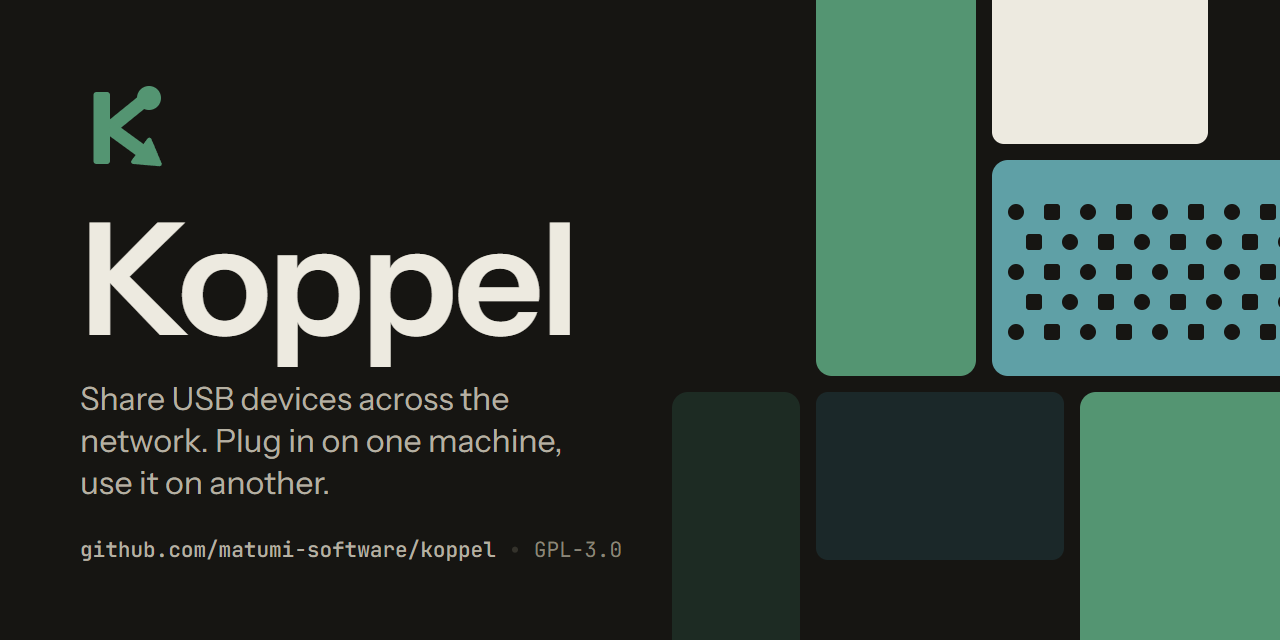
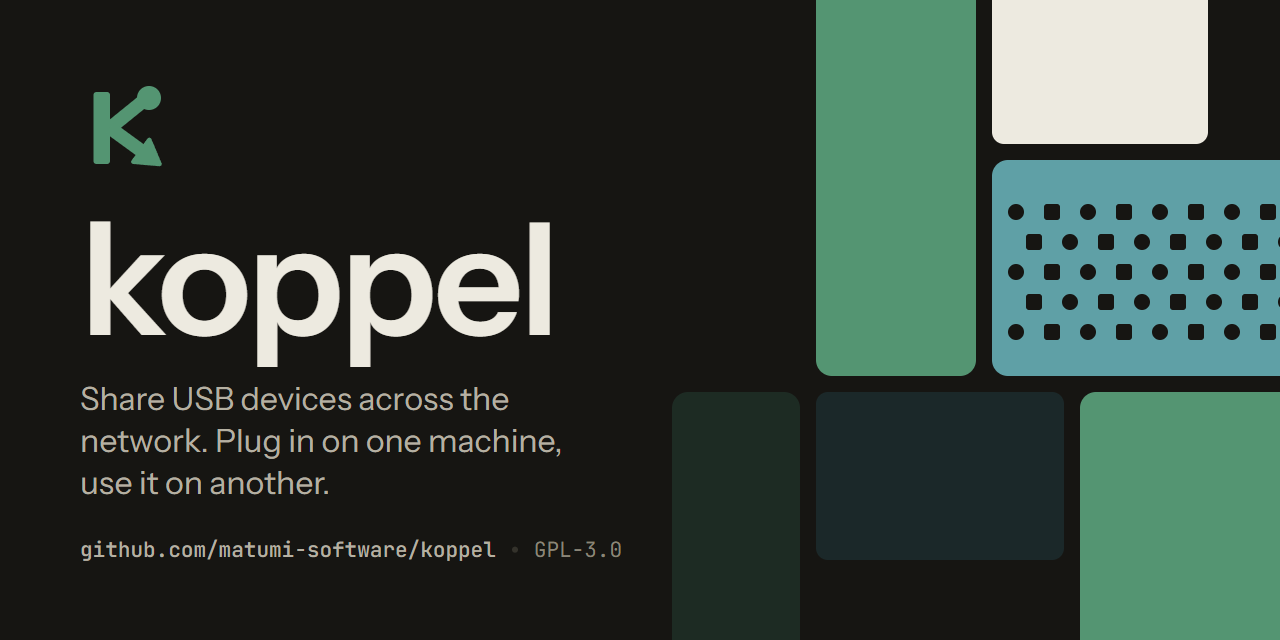
Set the koppel wordmark in lowercase
The wordmark is always lowercase, like the other Matumi Software wordmarks: the app shell, the
setup and sign-in screens, the cover, the social preview and the design system docs. Running text
and the accessible name keep "Koppel".

Changed region(s): [[0.0625, 0.3438, 0.4688, 0.5938]]

diff --git a/src/Koppel/src/Koppel.UI/src/auth/auth-frame.tsx b/src/Koppel/src/Koppel.UI/src/auth/auth-frame.tsx
@@ -7,7 +7,7 @@ export function AuthFrame({ children }: { children: ReactNode }) {
     <div className="kp-shell" style={{ flexDirection: 'column' }}>
       <header className="kp-row" style={{ padding: '14px 24px', borderBottom: '1px solid var(--border-default)', background: 'var(--bg-surface)' }}>
         <KoppelMark size={26} />
-        <span className="kp-type-heading">Koppel</span>
+        <span className="kp-type-heading">koppel</span>
       </header>
       <main style={{ display: 'flex', justifyContent: 'center', padding: '40px 16px' }}>
         <div style={{ width: '100%', maxWidth: 460, display: 'flex', flexDirection: 'column', gap: 24 }}>{children}</div>

diff --git a/src/Koppel/src/Koppel.UI/src/setup/setup-page.tsx b/src/Koppel/src/Koppel.UI/src/setup/setup-page.tsx
@@ -32,7 +32,7 @@ export function SetupPage({ locked, onDone }: { locked: boolean; onDone: (role: 
     <div className="kp-shell" style={{ flexDirection: 'column' }}>
       <header className="kp-row" style={{ padding: '14px 24px', borderBottom: '1px solid var(--border-default)', background: 'var(--bg-surface)' }}>
         <KoppelMark size={26} />
-        <span className="kp-type-heading">Koppel</span>
+        <span className="kp-type-heading">koppel</span>
       </header>
       <main style={{ display: 'flex', justifyContent: 'center', padding: '40px 16px' }}>
         <div style={{ width: '100%', maxWidth: 920, display: 'flex', flexDirection: 'column', gap: 28 }}>

diff --git a/resources/design-system/assets/Social/koppel-social-preview.html b/resources/design-system/assets/Social/koppel-social-preview.html
@@ -42,7 +42,7 @@ p { margin:28px 0 0; font-size:32px; line-height:42px; color:var(--text-secondar
       <path d="M53 56 L35.6 54.5 L46.2 39.9 Z" stroke-width="3" stroke-linejoin="round"/>
     </g>
     </svg>
-    <h1>Koppel</h1>
+    <h1>koppel</h1>
     <p>Share USB devices across the network. Plug in on one machine, use it on another.</p>
     <div class="foot"><b>github.com/matumi-software/koppel</b><span class="dot"></span><span>GPL-3.0</span></div>
   </div>

diff --git a/src/Koppel.Core/src/Koppel.Core.React.UI/src/components/AppShell.tsx b/src/Koppel.Core/src/Koppel.Core.React.UI/src/components/AppShell.tsx
@@ -36,7 +36,7 @@ export function AppShell({ nav, navFoot, navFootState, aside, defaultAsideWidth,
   const brand = (
     <div className="kp-brand">
       <KoppelMark size={26} />
-      <span>Koppel</span>
+      <span>koppel</span>
     </div>
   );
   const foot = navFoot && (

diff --git a/src/Koppel.Core/src/Koppel.Core.React.UI/src/components/KoppelMark.tsx b/src/Koppel.Core/src/Koppel.Core.React.UI/src/components/KoppelMark.tsx
@@ -1,6 +1,6 @@
 export interface KoppelMarkProps {
   size?: number;
-  /** Accessible name. Leave out when the word "Koppel" sits next to the mark. */
+  /** Accessible name. Leave out when the wordmark "koppel" sits next to the mark. */
   title?: string;
 }
 

diff --git a/resources/design-system/components/Cover/preview.html b/resources/design-system/components/Cover/preview.html
@@ -33,7 +33,7 @@
     </g>
   </svg>
   <div class="text">
-    <h1>Koppel</h1>
+    <h1>koppel</h1>
     <p>USB devices, shared across the network.</p>
   </div>
 </div>

diff --git a/resources/design-system/README.md b/resources/design-system/README.md
@@ -48,7 +48,7 @@ Every change goes to the server over REST and is only shown as done when the ser
 ## Iconography
 
 - The mark is a K whose arms end in a circle and an arrow, two of the shapes on the USB trident. Use `assets/Logos/koppel-mark.svg` on light grounds and `koppel-mark-on-dark.svg` on dark grounds. Keep clear space of half the mark's width around it and never draw it below 16px.
-- The wordmark is "Koppel" set in Instrument Sans 600 next to the mark, with the mark's height matched to the cap height plus ascender. There is no outlined wordmark file yet; set it in type.
+- The wordmark is "koppel", always lowercase like the other Matumi Software wordmarks, set in Instrument Sans 600 next to the mark, with the mark's height matched to the cap height plus ascender. There is no outlined wordmark file yet; set it in type.
 - The social preview for GitHub and link cards is `assets/Social/koppel-social-preview.png` (1280x640). Its source is `koppel-social-preview.html` next to it: open it in a browser at 1280x640 and screenshot the card to regenerate it.
 - UI icons: use Lucide (outline, 1.5px stroke, 16px in controls and 20px in headings), drawn in `currentColor`. No emoji anywhere in the product.
 

diff --git a/resources/design-system/assets/Logos/README.md b/resources/design-system/assets/Logos/README.md
@@ -7,4 +7,4 @@ The Koppel mark: a K whose arms end in a circle and an arrow, after the USB trid
 - `koppel-app-icon.svg`: the app icon, the mark in `bg-page` light `#FBF9F4` on an `accent` light `#2A6B4E` tile with 14/64 corner radius. The tile keeps it legible on light and dark Windows themes. Use it wherever the system shows Koppel as an app: the Apps list, setup.exe, Koppel.exe.
 - `koppel-app-icon.ico` and `koppel-app-icon-64.png` are rendered from it by `pnpm design:icons` (run from `src/`). Do not edit them by hand.
 - Clear space: half the mark's width on every side. Minimum size: 16px.
-- The wordmark is set in type ("Koppel", Instrument Sans 600) beside the mark. No outlined wordmark file exists yet.
+- The wordmark is set in type ("koppel", all lowercase, Instrument Sans 600) beside the mark. No outlined wordmark file exists yet.
